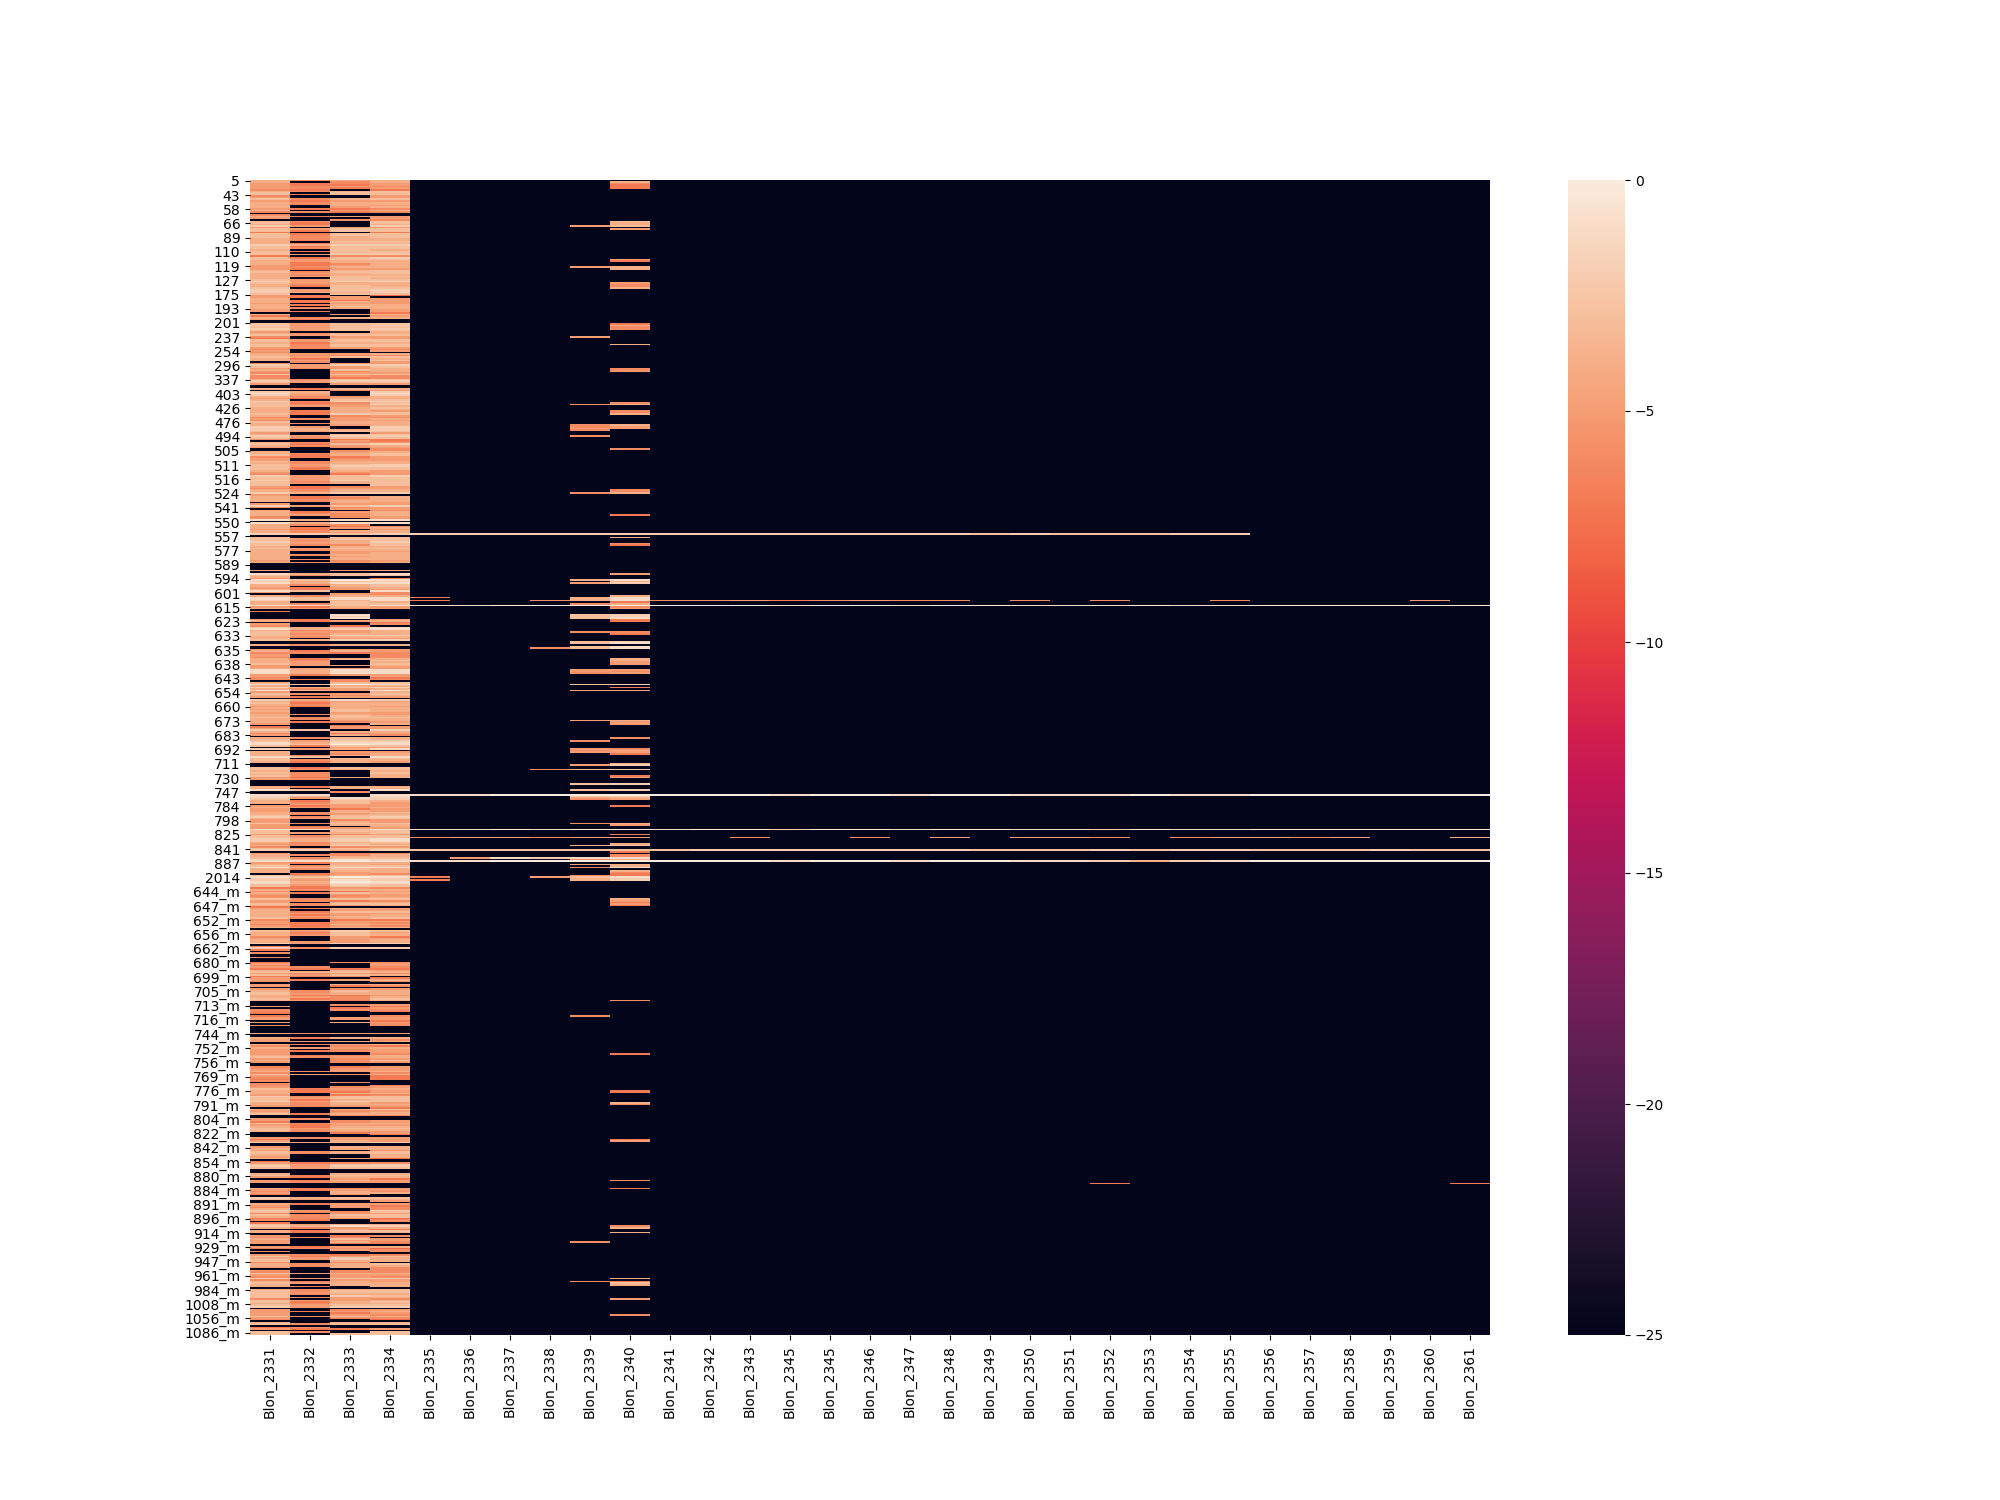
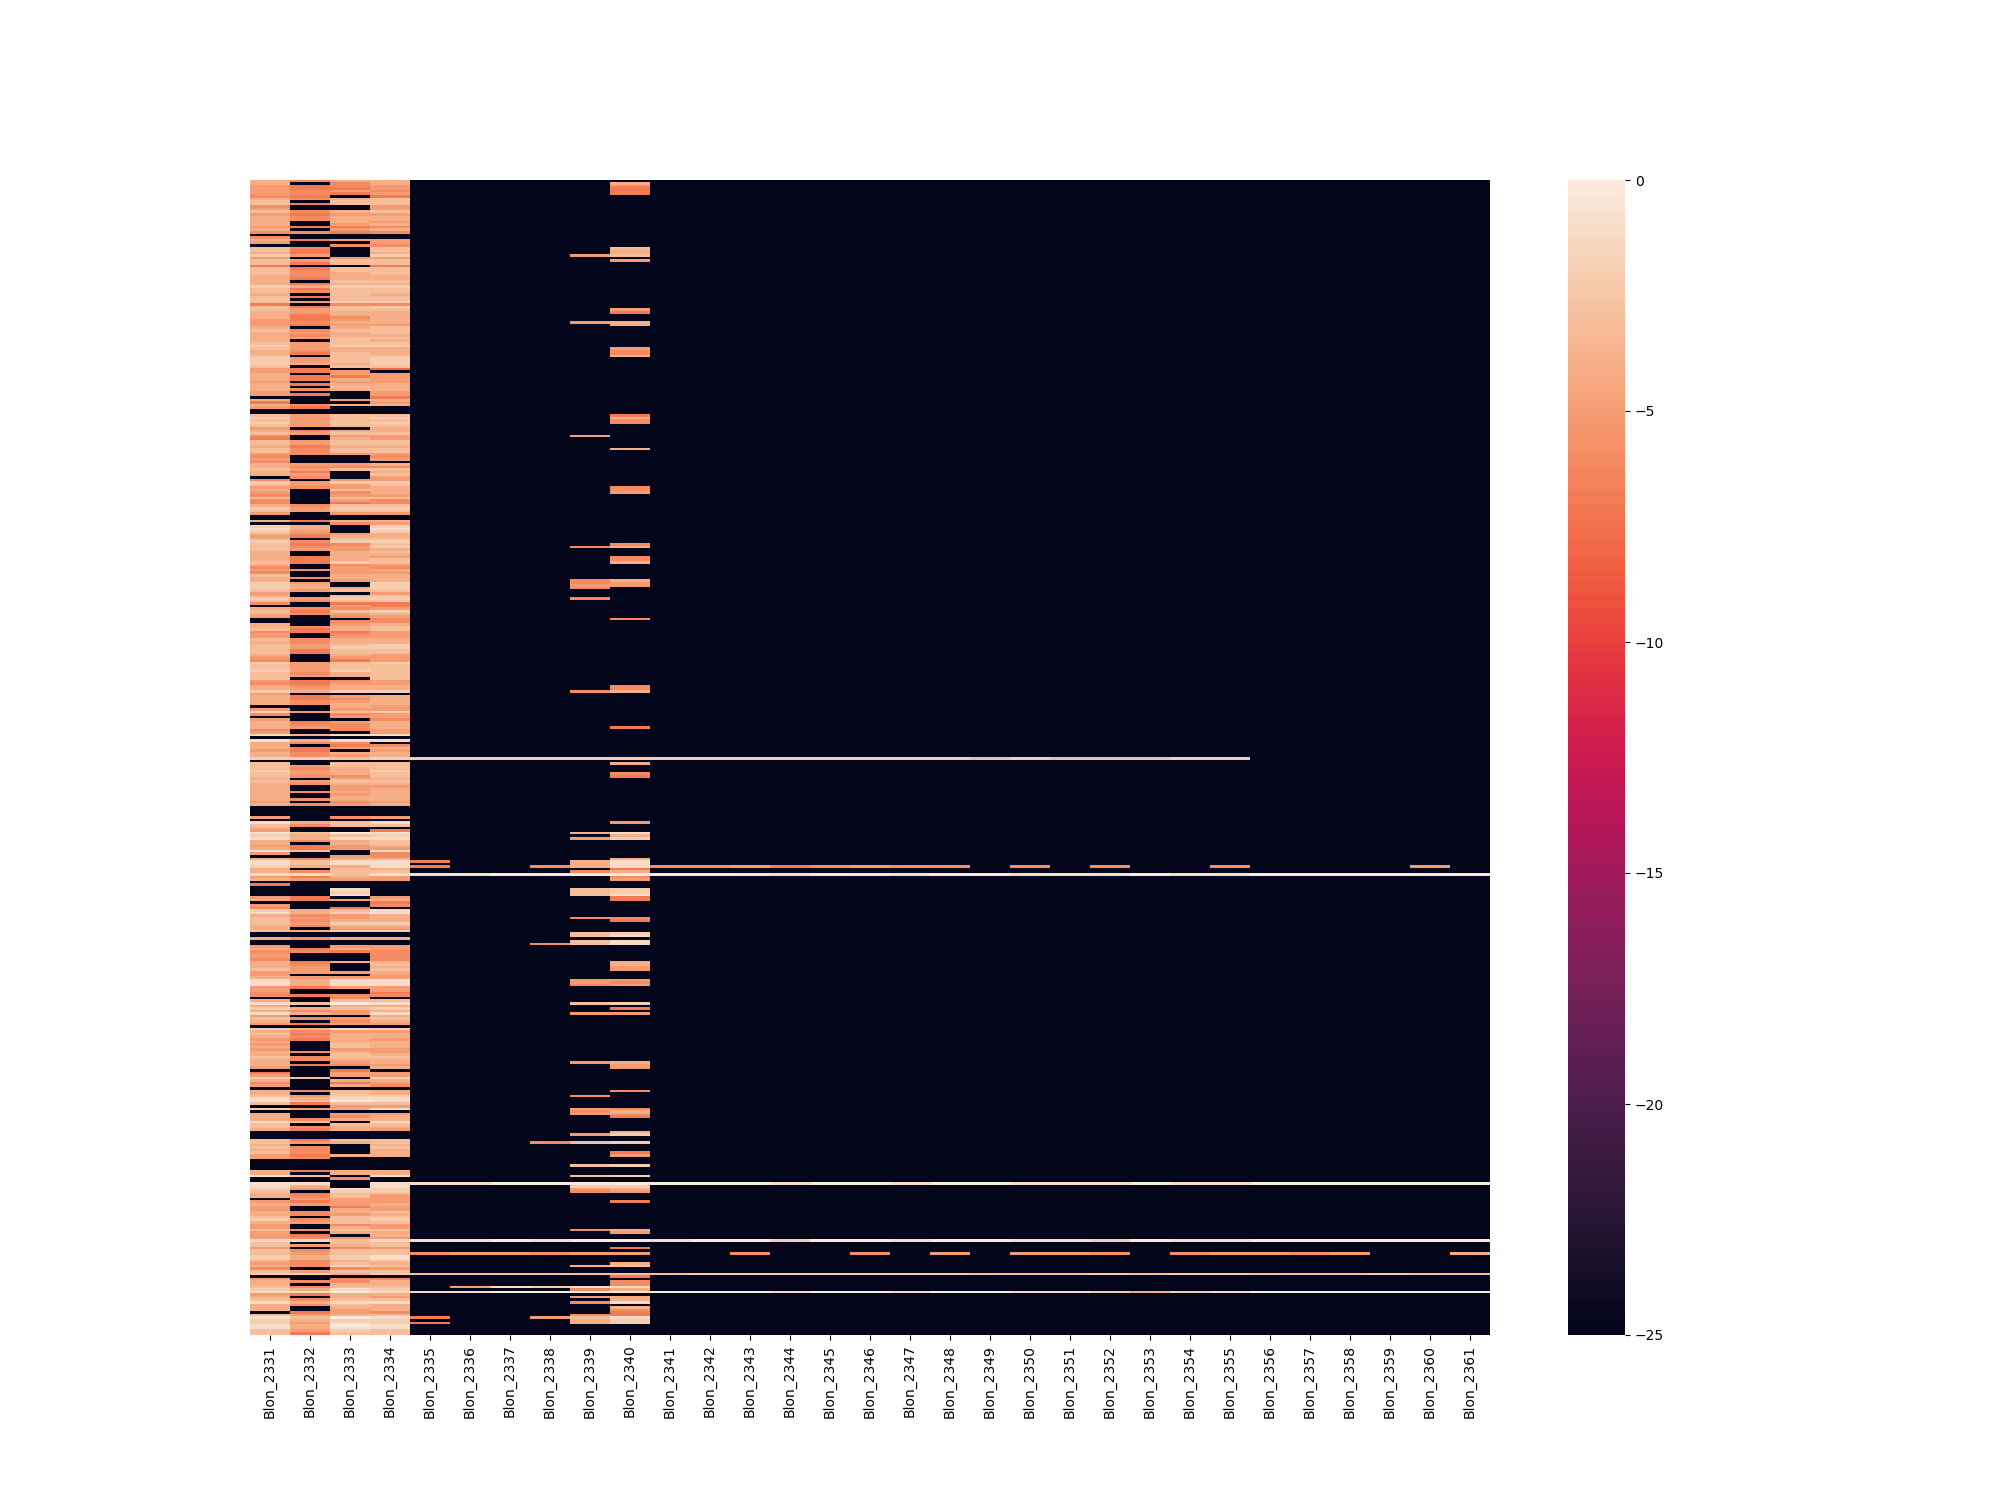
updates

diff --git a/scripts/blast/broadecho_scrape.py b/scripts/blast/broadecho_scrape.py
@@ -68,25 +68,24 @@ for key in match_dict.keys():
 # plt.subplots(figsize=(20,15))
 # heatmap = sns.heatmap(df.astype(int))
 # fig = heatmap.get_figure()
-# fig.savefig("/Users/laurentso/Desktop/repos/bifido/scripts/blast/output/existing_broadecho_1.png")
+# fig.savefig("/Users/laurentso/Desktop/repos/bifido/scripts/blast/output/broadecho.png")
 
 # # logged results
 # plt.subplots(figsize=(20,15))
 # heatmap = sns.heatmap(log_df.astype(int)) #, cmap="YlGnBu")
 # fig = heatmap.get_figure()
-# fig.savefig("/Users/laurentso/Desktop/repos/bifido/scripts/blast/output/existing_broadecho_log_1.png")
+# fig.savefig("/Users/laurentso/Desktop/repos/bifido/scripts/blast/output/broadecho_log.png")
 
 # # logged and normalized results
 # plt.subplots(figsize=(20,15))
-# heatmap = sns.heatmap(normalized_df.astype(int)) #, cmap="YlGnBu")
+# heatmap = sns.heatmap(normalized_df.astype(int), cmap="diverging")
 # fig = heatmap.get_figure()
-# fig.savefig("/Users/laurentso/Desktop/repos/bifido/scripts/blast/output/existing_broadecho_log_norm_1.png")
+# fig.savefig("/Users/laurentso/Desktop/repos/bifido/scripts/blast/output/broadecho_log_norm.png")
 
 # ---------------------------------------------------------------------------------------------------------
 
 mapping = pd.read_csv('/Users/laurentso/Desktop/repos/bifido/scripts/metadata/master_fecal_samples.csv')
 metadata = pd.read_csv('/Users/laurentso/Desktop/repos/bifido/scripts/metadata/metadata_with_brain.csv')
-
 
 # need to get a dictionary of sample id to subject id
 ids = list(zip(mapping["SampleID"], mapping["SubjectID"]))
@@ -110,6 +109,10 @@ for key in subjects:
         meta_df.loc[key] = metadata.iloc[index[0]]['correctedAgeDays'] / 365
     else:
         meta_df.loc[key] = np.nan
+
+print(len(meta_df[meta_df["age"] <= 2.]))
+print(len(set(meta_df.index[meta_df["age"] <= 2.].tolist())))
+print(len(set(meta_df.index[meta_df["age"] > 2.].tolist())))
 
 # plt.subplots(figsize=(5,15))
 # mask = meta_df.isnull()
@@ -136,15 +139,21 @@ norm_df.index = subjects
 # assign adj_index to column, sort df by it, then drop it
 norm_df["adj_index"] = adj_index
 norm_df.sort_values(by=['adj_index'], inplace=True)
+kid_df = norm_df.copy()
 norm_df = norm_df.drop('adj_index', 1)
 
-dm = pd.DataFrame(distance_matrix(norm_df.values, norm_df.values), index=norm_df.index, columns=norm_df.index)
-dm.to_csv("output/broadecho_dm.csv")
+kid_df = kid_df[kid_df["adj_index"] < 9999]
+kid_df = kid_df.drop('adj_index', 1)
+
+# dm = pd.DataFrame(distance_matrix(norm_df.values, norm_df.values), index=norm_df.index, columns=norm_df.index)
+# dm.to_csv("output/broadecho_dm.csv")
 
 plt.subplots(figsize=(20,15))
-heatmap = sns.clustermap(norm_df.astype(int))#, yticklabels=True, figsize=(100, figure_height)) #, cmap="YlGnBu")
-# fig = heatmap.get_figure()
-heatmap.savefig("/Users/laurentso/Desktop/repos/bifido/scripts/blast/output/broadecho_cluster.png")
+# heatmap = sns.clustermap(norm_df.astype(int), yticklabels=False) #, yticklabels=True, figsize=(100, figure_height)) #, cmap="YlGnBu")
+heatmap = sns.heatmap(kid_df.astype(int), yticklabels=False) #, yticklabels=True, figsize=(100, figure_height)) #, cmap="YlGnBu")
+fig = heatmap.get_figure()
+# heatmap.savefig("/Users/laurentso/Desktop/repos/bifido/scripts/blast/output/broadecho_cluster.png")
+fig.savefig("/Users/laurentso/Desktop/repos/bifido/scripts/blast/output/broadecho_log_norm_adj.png")
 
 # # just samples with blon 2355 to focus in on infantis
 # df_2355 = norm_df.copy()

diff --git a/scripts/blast/prot_broadecho_scrape.py b/scripts/blast/prot_broadecho_scrape.py
@@ -7,7 +7,7 @@ import seaborn as sns
 import matplotlib.pyplot as plt
 
 # read in all blast files, one for each sample
-blast_output = [f for f in listdir("/Users/laurentso/Desktop/repos/bifido/scripts/blast/output/echo_output")]
+blast_output = [f for f in listdir("/Users/laurentso/Desktop/repos/bifido/scripts/blast/output/prot_output")]
 
 blons = open("/Users/laurentso/Desktop/repos/bifido/scripts/blast/blon_map.txt", "r")
 queries = []
@@ -28,7 +28,6 @@ for line in lengths.readlines():
         i += 1
     else:
         len_dict[blon] = float(line)/3.
-print(len_dict['blon_2353'])
 
 match_dict = {}
 for filename in blast_output:
@@ -69,22 +68,22 @@ for key in match_dict.keys():
 # normalized_df.to_csv("output/normalized.tsv", sep = '\t')
 
 # normal results
-plt.subplots(figsize=(20,15))
-heatmap = sns.heatmap(df.astype(int))
-fig = heatmap.get_figure()
-fig.savefig("/Users/laurentso/Desktop/repos/bifido/scripts/blast/output/prot_broadecho.png")
+# plt.subplots(figsize=(20,15))
+# heatmap = sns.heatmap(df.astype(int))
+# fig = heatmap.get_figure()
+# fig.savefig("/Users/laurentso/Desktop/repos/bifido/scripts/blast/output/prot_broadecho.png")
 
-# logged results
-plt.subplots(figsize=(20,15))
-heatmap = sns.heatmap(log_df.astype(int)) #, cmap="YlGnBu")
-fig = heatmap.get_figure()
-fig.savefig("/Users/laurentso/Desktop/repos/bifido/scripts/blast/output/prot_broadecho_log.png")
+# # logged results
+# plt.subplots(figsize=(20,15))
+# heatmap = sns.heatmap(log_df.astype(int)) #, cmap="YlGnBu")
+# fig = heatmap.get_figure()
+# fig.savefig("/Users/laurentso/Desktop/repos/bifido/scripts/blast/output/prot_broadecho_log.png")
 
-# logged and normalized results
-plt.subplots(figsize=(20,15))
-heatmap = sns.heatmap(normalized_df.astype(int)) #, cmap="YlGnBu")
-fig = heatmap.get_figure()
-fig.savefig("/Users/laurentso/Desktop/repos/bifido/scripts/blast/output/prot_broadecho_log_norm.png")
+# # logged and normalized results
+# plt.subplots(figsize=(20,15))
+# heatmap = sns.heatmap(normalized_df.astype(int)) #, cmap="YlGnBu")
+# fig = heatmap.get_figure()
+# fig.savefig("/Users/laurentso/Desktop/repos/bifido/scripts/blast/output/prot_broadecho_log_norm.png")
 
 # ---------------------------------------------------------------------------------------------------------
 
@@ -140,10 +139,20 @@ norm_df.index = subjects
 # assign adj_index to column, sort df by it, then drop it
 norm_df["adj_index"] = adj_index
 norm_df.sort_values(by=['adj_index'], inplace=True)
+norm_df.sort_values(by=['adj_index'], inplace=True)
+kid_df = norm_df.copy()
 norm_df = norm_df.drop('adj_index', 1)
 
+kid_df = kid_df[kid_df["adj_index"] < 9999]
+kid_df = kid_df.drop('adj_index', 1)
+# plt.subplots(figsize=(20,15))
+# heatmap = sns.heatmap(norm_df.astype(int)) #, cmap="YlGnBu")
+# fig = heatmap.get_figure()
+# fig.savefig("/Users/laurentso/Desktop/repos/bifido/scripts/blast/output/prot_broadecho_log_norm_adj.png")
+
 plt.subplots(figsize=(20,15))
-heatmap = sns.heatmap(norm_df.astype(int)) #, cmap="YlGnBu")
+# heatmap = sns.clustermap(norm_df.astype(int), yticklabels=False)#, yticklabels=True, figsize=(100, figure_height)) #, cmap="YlGnBu")
+heatmap = sns.heatmap(kid_df, yticklabels=False)#, yticklabels=True, figsize=(100, figure_height)) #, cmap="YlGnBu")
 fig = heatmap.get_figure()
 fig.savefig("/Users/laurentso/Desktop/repos/bifido/scripts/blast/output/prot_broadecho_log_norm_adj.png")
 
